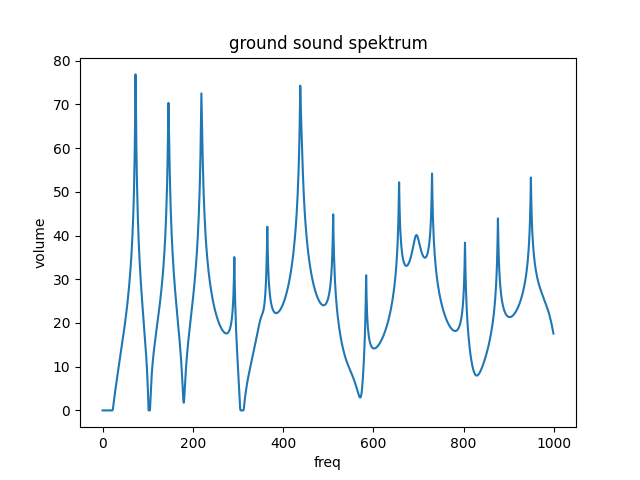
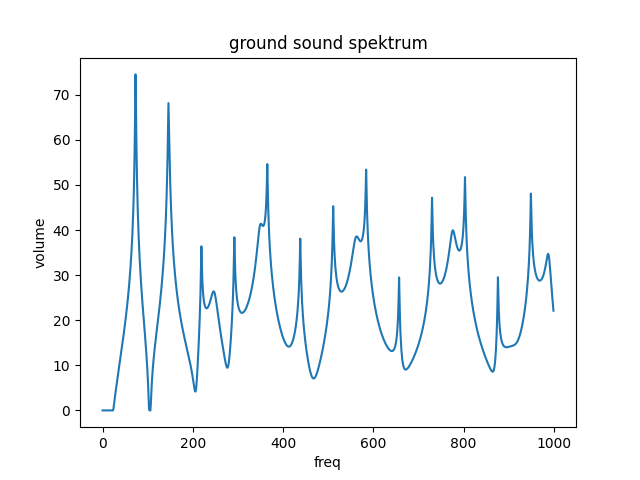
add more shapes

diff --git a/src/doc/shapes/matema/matema.md b/src/doc/shapes/matema/matema.md
@@ -1,0 +1,43 @@
+# Matema
+
+Matema is tuned in D, has toots in the minor scale and a singer note at A, 440 Hz.
+
+## Geometry
+
+* Length: 1705 mm
+* Bell Diameter: 70 mm
+
+Download geometry
+
+* [JSON format](geo.json)
+* [text format](formated_geo.txt)
+
+![Impedance Spektrum](shape.png)
+
+## Tuning of resonant frequencies
+
+```
+ freq impedance rel_imp  note-number cent-diff note-name
+ 73.4  2.66e+07    1.00          -31      0.38        D1
+147.0  5.71e+06    0.21          -19     -1.98        D2
+248.0  6.64e+06    0.25          -10     -7.40        B3
+329.0  2.78e+06    0.10           -5      3.30        E3
+440.0  7.56e+06    0.28            0      0.00        A4
+557.0  2.48e+06    0.09            4     -8.21       C#4
+645.0  2.63e+06    0.10            7     37.85        E4
+763.0  1.50e+06    0.06           10     46.98        G4
+846.0  8.62e+05    0.03           11    -31.78       G#4
+958.0  1.20e+06    0.05           13    -47.03       A#5
+```
+
+![Impedance Spektrum](impedance_spektrum.png)
+
+## Ground Tone Spektrum
+
+![Impedance Spektrum](ground_spektrum.png)
+
+## How to create it?
+
+```
+python -m cad.evo.evolve_arusha
+```

diff --git a/src/doc/shapes/kizimkazi/kizimkazi.md b/src/doc/shapes/kizimkazi/kizimkazi.md
@@ -1,0 +1,40 @@
+# Kizimkazi
+
+Kizimkazi is tuned in D and should have two singer notes. The position of the bell end is at the same position as maximum values of the sound wave of the 2nd and the 4th harmonic. At the same time, these are resonant frequencies of the didgeridoo.
+
+## Geometry
+
+* Length: 1144 mm
+* Bell Diameter: 39 mm
+
+Download geometry
+
+* [JSON format](geo.json)
+* [text format](formated_geo.txt)
+
+![Impedance Spektrum](shape.png)
+
+## Tuning of resonant frequencies
+
+```
+ freq impedance rel_imp  note-number cent-diff note-name
+ 73.4  3.25e+07    1.00          -31      0.38        D1
+220.0  1.40e+07    0.43          -12      0.00        A3
+367.0  1.12e+07    0.34           -3     14.07       F#3
+533.0  8.05e+06    0.25            3    -31.96        C4
+682.0  2.69e+06    0.08            8     41.28        F4
+797.0  3.01e+06    0.09           10    -28.49        G4
+962.0  5.44e+06    0.17           14     45.76        B5
+```
+
+![Impedance Spektrum](impedance_spektrum.png)
+
+## Ground Tone Spektrum
+
+![Impedance Spektrum](ground_spektrum.png)
+
+## How to create it?
+
+```
+python -m cad.evo.evolve_arusha
+```

diff --git a/src/doc/shapes/arusha_1/arusha_1.md b/src/doc/shapes/arusha_1/arusha_1.md
@@ -1,10 +1,16 @@
 # Arusha 1
 
-Arusha 1 is created to have especially many resonant frequencies and toots that are tuned in the minor scale. It derives from the same evolution as Arusha 2 and 3.
+The Arusha series is designrd to have especially many resonant frequencies and toots that are tuned in the minor scale. Arusha 1 shape has especially high resonant frequencies above the drone frequency.
 
 ## Geometry
+* Length: 1712 mm
+* Bell Diameter: 91 mm
+* Download geometry: [geo.txt](geo.txt)
 
-Download geometry: [geo.txt](geo.txt)
+Download geometry
+
+* [JSON format](geo.json)
+* [text format](formated_geo.txt)
 
 ![Impedance Spektrum](shape.png)
 

diff --git a/src/doc/shapes/arusha_2/arusha_2.md b/src/doc/shapes/arusha_2/arusha_2.md
@@ -1,10 +1,16 @@
 # Arusha 2
 
-Arusha 2 is created to have especially many resonant frequencies and toots that are tuned in the minor scale. It derives from the same evolution as Arusha 1 and 3.
+The Arusha series is designed to have especially many resonant frequencies and toots that are tuned in the minor scale. The interesting property of Arusha 2 is that the first toot has a larger imepdance than the drone.
 
 ## Geometry
 
-Download geometry: [geo.txt](geo.txt)
+* Length: 1624 mm
+* Bell Diameter: 74 mm
+
+Download geometry
+
+* [JSON format](geo.json)
+* [text format](formated_geo.txt)
 
 ![Impedance Spektrum](shape.png)
 

diff --git a/src/doc/shapes/arusha_3/arusha_3.md b/src/doc/shapes/arusha_3/arusha_3.md
@@ -1,10 +1,16 @@
 # Arusha 3
 
-Arusha 3 is created to have especially many resonant frequencies and toots that are tuned in the minor scale. It derives from the same evolution as Arusha 1 and 2.
+The Arusha series is designed to have especially many resonant frequencies and toots that are tuned in the minor scale. Arusha 3 should have a bright tone because of the strong higher resonant frequencies.
 
 ## Geometry
 
-Download geometry: [geo.txt](geo.txt)
+* Length: 1717 mm
+* Bell Diameter: 113 mm
+
+Download geometry
+
+* [JSON format](geo.json)
+* [text format](formated_geo.txt)
 
 ![Impedance Spektrum](shape.png)
 

diff --git a/src/doc/shapes.md b/src/doc/shapes.md
@@ -1,0 +1,9 @@
+# Didgeridoo Shapes
+
+## Matema
+
+matema is in d, plays a minor scale and has a singer note at a - 440 Hz
+
+## Arusha
+
+# Arusha is tuned in D and has toots in the minor scale
